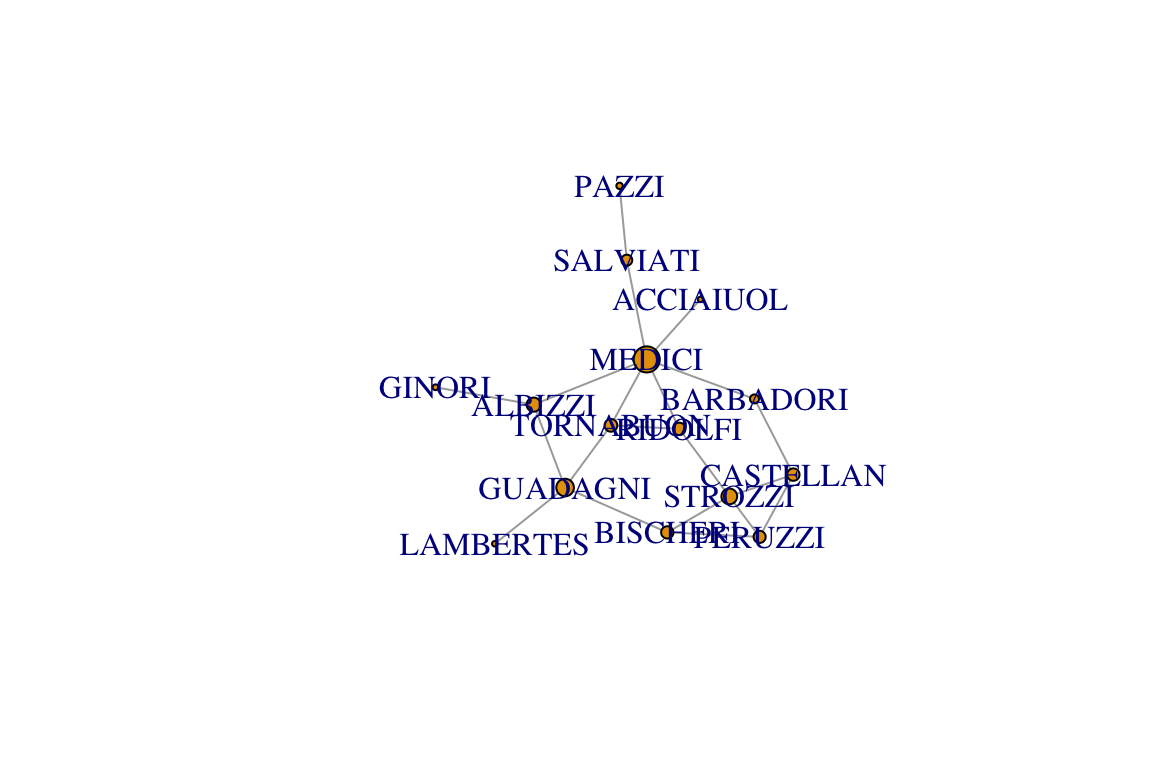
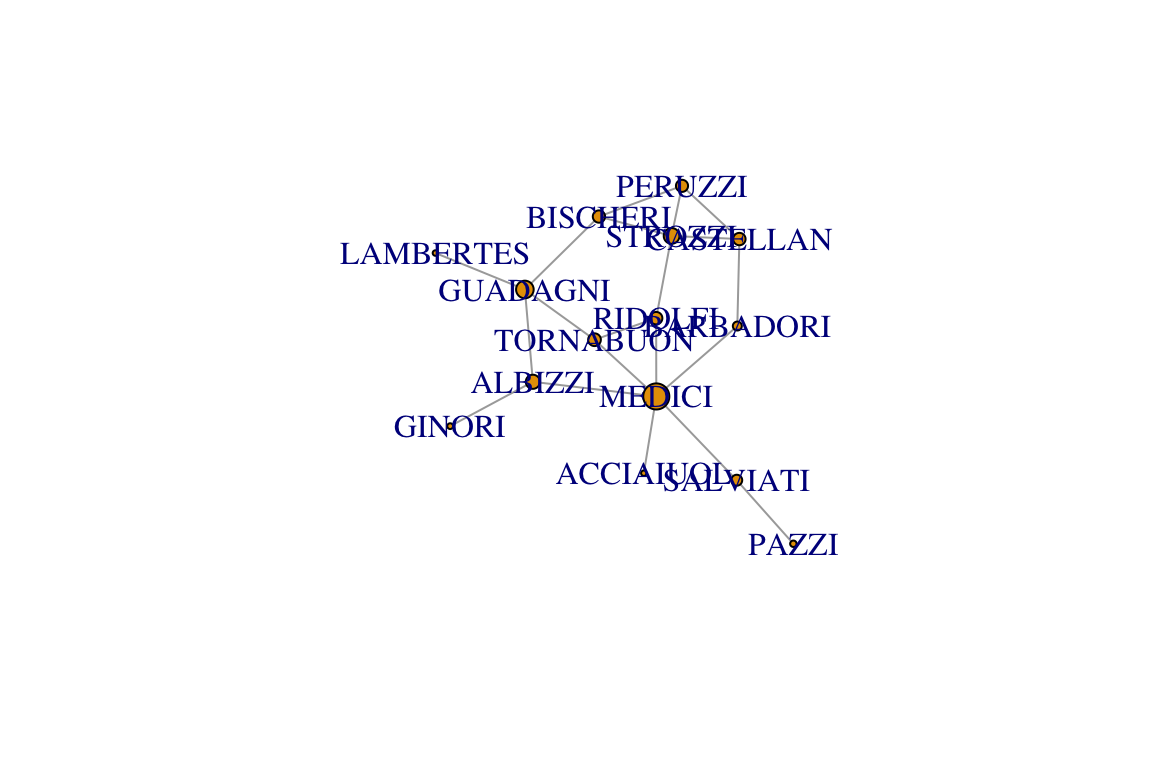
post...tried to make figures more clean. Perhaps not sucessful.

Changed region(s): [[0.2812, 0.2188, 0.7812, 0.7188]]

diff --git a/_posts/2018-09-16-a-foray-into-network-analysis/a-foray-into-network-analysis.html b/_posts/2018-09-16-a-foray-into-network-analysis/a-foray-into-network-analysis.html
@@ -49,7 +49,7 @@
   <!--/radix_placeholder_rmarkdown_metadata-->
   
   <script type="text/json" id="radix-resource-manifest">
-  {"type":"character","attributes":{},"value":["a-foray-into-network-analysis_files/bowser-1.9.3/bowser.min.js","a-foray-into-network-analysis_files/distill-2.2.21/template.v2.js","a-foray-into-network-analysis_files/figure-html5/unnamed-chunk-4-1.png","a-foray-into-network-analysis_files/figure-html5/unnamed-chunk-6-1.png","a-foray-into-network-analysis_files/jquery-1.11.3/jquery.min.js","a-foray-into-network-analysis_files/webcomponents-2.0.0/webcomponents.js"]}
+  {"type":"character","attributes":{},"value":["a-foray-into-network-analysis_files/bowser-1.9.3/bowser.min.js","a-foray-into-network-analysis_files/distill-2.2.21/template.v2.js","a-foray-into-network-analysis_files/figure-html5/unnamed-chunk-4-1.png","a-foray-into-network-analysis_files/figure-html5/unnamed-chunk-4-2.png","a-foray-into-network-analysis_files/figure-html5/unnamed-chunk-4-3.png","a-foray-into-network-analysis_files/figure-html5/unnamed-chunk-6-1.png","a-foray-into-network-analysis_files/jquery-1.11.3/jquery.min.js","a-foray-into-network-analysis_files/webcomponents-2.0.0/webcomponents.js"]}
   </script>
   <!--radix_placeholder_navigation_in_header-->
   <!--/radix_placeholder_navigation_in_header-->
@@ -992,11 +992,14 @@ florentine_g &lt;- graph.adjacency(florentine_g, mode = &quot;undirected&quot;, 
 <h2 id="visualising-the-network">Visualising the Network</h2>
 <div class="layout-chunk" data-layout="l-body">
 <pre class="r"><code>
-par(mfrow = c(1,3))
-plot(florentine_g, vertex.size = betweenness(florentine_g), main = &quot;Betweeness&quot;)
-plot(florentine_g, vertex.size = closeness(florentine_g)*1000, main = &quot;Closeness&quot;)
+plot(florentine_g, vertex.size = betweenness(florentine_g), main = &quot;Betweeness&quot;)</code></pre>
+<p><img src="a-foray-into-network-analysis_files/figure-html5/unnamed-chunk-4-1.png" width="600px" height="600px" /></p>
+<pre class="r"><code>
+plot(florentine_g, vertex.size = closeness(florentine_g)*1000, main = &quot;Closeness&quot;)</code></pre>
+<p><img src="a-foray-into-network-analysis_files/figure-html5/unnamed-chunk-4-2.png" width="600px" height="600px" /></p>
+<pre class="r"><code>
 plot(florentine_g, vertex.size = degree(florentine_g)*10, main = &quot;Degree&quot;)</code></pre>
-<p><img src="a-foray-into-network-analysis_files/figure-html5/unnamed-chunk-4-1.png" width="576" /></p>
+<p><img src="a-foray-into-network-analysis_files/figure-html5/unnamed-chunk-4-3.png" width="600px" height="600px" /></p>
 </div>
 <h2 id="the-numeric-outputs">The Numeric Outputs</h2>
 <div class="layout-chunk" data-layout="l-body">
